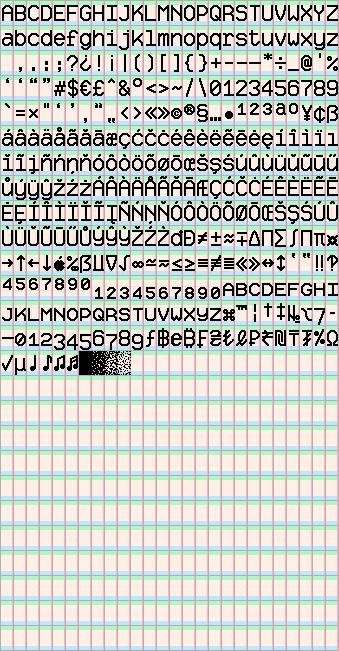
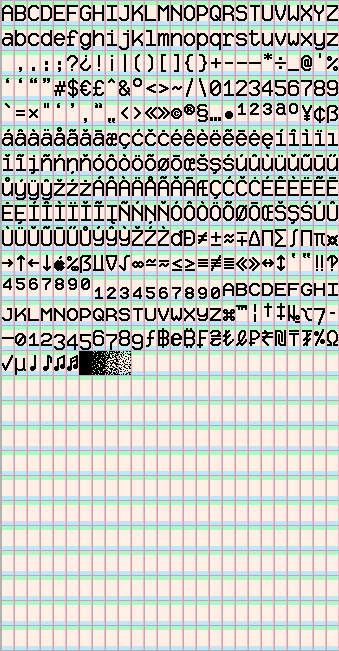
release v0.6.0

diff --git a/package/README.md b/package/README.md
@@ -8,7 +8,7 @@ design for one target size.
 
 This package doesn't just ship fonts, but the whole scaling system for web. Type, spacing, borders,
 and the rest share one source pixel. The page that uses it reads as a real low-res grid,
-not a out of place pixel font on a normal website.
+not an out of place pixel font on a normal website.
 
 🌐 [**Playground**](https://quantastrike.dithernaut.com)
 
